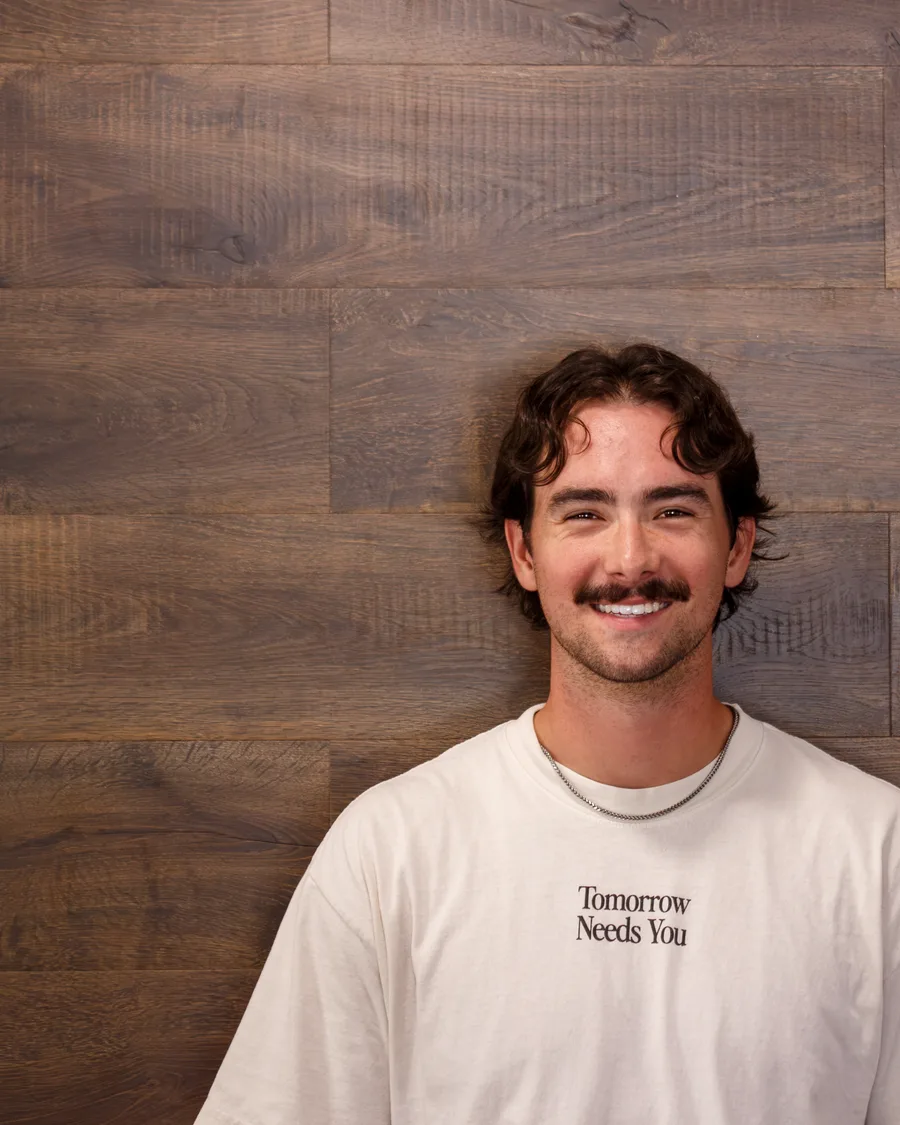
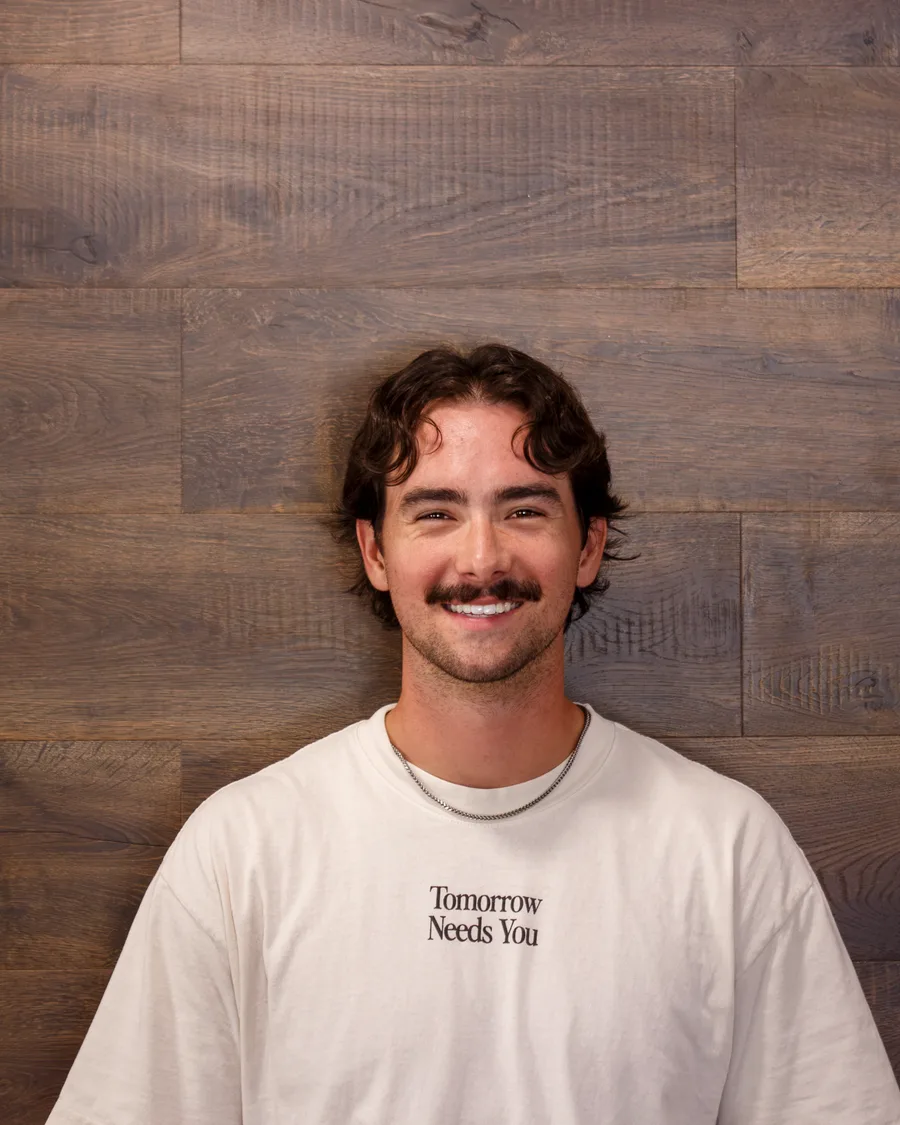
Centre Matthew and Paul, rework the social marks, fix two long lines
Photos
- Matthew was still 16.5% right of centre and Paul had drifted 6% left. The
  earlier offsets for both were estimated by eye off a small contact sheet and
  were simply wrong. Measured properly this time — rendered card, ruler at 5%
  intervals, read against the tick marks — and re-measured all nine the same
  way afterwards. Andrea and Mary Sue were 3% out and were trimmed too. All
  nine now sit within about 1% of centre.

Social marks
- Both are the same rounded square now, so they read as one set rather than an
  outlined square beside a bare solid "f". The enclosing circle is gone; the
  square was already the shape and ringing it too made each look like an
  unfinished button. Gold, which is what the accent is on a navy ground and is
  untouched by the campus theme, so they stay right in both.
- The f really was off-centre. Its bounding box measured (12.62, 12.31)
  against the square's (12, 12) — an f is asymmetric, so its coordinates never
  centre on their own — and it now carries exactly that correction. Verified
  in the browser: both marks sit at 50/50 inside their squares.

Long lines
- The two schools run together wrapped mid-name at nearly every width, so they
  are separate fields set on their own lines.
- The ministry's full name broke with "Ministry" alone on the last line in the
  footer column; balanced now, giving "John Paul the Great / Catholic Campus
  Ministry".

Also
[…]

diff --git a/src/components/layout/SocialLinks.tsx b/src/components/layout/SocialLinks.tsx
@@ -1,27 +1,37 @@
 import { SITE_CONFIG } from "@/content/site-config";
 
 /**
- * Platform icons rather than the words "Instagram" and "Facebook".
+ * The ministry's social links, as marks rather than words.
+ *
+ * Both are drawn as the same rounded square so they read as one set instead of
+ * two borrowed glyphs — the first pass paired an outlined square with a bare
+ * solid "f" and looked accidental. The enclosing circle is gone: the square is
+ * already the shape, and ringing it as well made each one look like a button
+ * someone forgot to finish.
+ *
+ * Gold, because on a navy ground gold is the accent in this system — the
+ * campus accent only ever appears on light grounds, and gold is deliberately
+ * untouched by the campus theme, so these stay correct under both.
  *
  * Inline SVG, not an icon package: two glyphs don't justify a dependency, and
  * inlining means they inherit currentColor and can't arrive late or fail to
- * load. Paths are the plain geometric marks — a rounded square with a circle
- * for Instagram, the lowercase f for Facebook — so nothing here reproduces a
- * brand's actual logo artwork.
+ * load. These are the plain geometric marks, not a brand's logo artwork.
  *
- * Each link keeps a visually-hidden text label so the destination is announced
+ * Each link keeps a visually-hidden label so the destination is announced
  * properly; `title` alone is not reliably read out.
  */
+const FRAME = <rect x="2.6" y="2.6" width="18.8" height="18.8" rx="5.4" />;
+
 const LINKS = [
   {
     name: "Instagram",
     href: SITE_CONFIG.instagramUrl,
     detail: SITE_CONFIG.instagram,
-    path: (
+    mark: (
       <>
-        <rect x="3" y="3" width="18" height="18" rx="5" />
-        <circle cx="12" cy="12" r="4" />
-        <circle cx="17.2" cy="6.8" r="1.2" fill="currentColor" stroke="none" />
+        {FRAME}
+        <circle cx="12" cy="12" r="4.15" />
+        <circle cx="17.05" cy="6.95" r="1.15" fill="currentColor" stroke="none" />
       </>
     ),
   },
@@ -29,48 +39,55 @@ const LINKS = [
     name: "Facebook",
     href: SITE_CONFIG.facebookUrl,
     detail: "Facebook",
-    // Solid glyph, so it overrides the stroked defaults the Instagram mark uses.
-    path: (
-      <path
-        d="M14.5 8.5h2.2V5.6h-2.6c-2.2 0-3.6 1.4-3.6 3.7v1.9H8.2v3h2.3V21h3.1v-6.8h2.3l.4-3h-2.7v-1.5c0-.7.3-1.2.9-1.2Z"
-        fill="currentColor"
-        stroke="none"
-      />
+    mark: (
+      <>
+        {FRAME}
+        {/* The f. The translate is not a guess — the glyph's own bounding box
+            was measured in the browser at (12.62, 12.31) against the square's
+            (12, 12), and this is that difference. An f is asymmetric, so its
+            path coordinates never centre on their own. */}
+        <path
+          d="M13.55 18.4v-5.55h1.86l.35-2.16h-2.21V9.29c0-.62.17-1.05 1.06-1.05h1.13V6.31a15 15 0 0 0-1.65-.09c-1.63 0-2.75.995-2.75 2.825v1.645H9.47v2.16h1.88V18.4Z"
+          transform="translate(-0.62 -0.31)"
+          fill="currentColor"
+          stroke="none"
+        />
+      </>
     ),
   },
 ] as const;
 
 export function SocialLinks({ className }: { className?: string }) {
   return (
-    <div className={className}>
-      <ul className="flex items-center gap-3">
-        {LINKS.map((link) => (
-          <li key={link.name}>
-            <a
-              href={link.href}
-              target="_blank"
-              rel="noopener noreferrer"
-              title={`${SITE_CONFIG.shortName} on ${link.name}${link.detail !== link.name ? ` — ${link.detail}` : ""}`}
-              className="flex h-10 w-10 items-center justify-center rounded-full border border-white/20 text-onnavy transition-colors duration-150 hover:border-gold-light hover:bg-gold-light hover:text-navy"
+    <ul className={`flex items-center gap-4 ${className ?? ""}`}>
+      {LINKS.map((link) => (
+        <li key={link.name}>
+          <a
+            href={link.href}
+            target="_blank"
+            rel="noopener noreferrer"
+            title={`${SITE_CONFIG.shortName} on ${link.name}${
+              link.detail !== link.name ? ` — ${link.detail}` : ""
+            }`}
+            className="block text-gold-light transition-[color,transform] duration-200 ease-out hover:-translate-y-0.5 hover:text-ivory"
+          >
+            <svg
+              viewBox="0 0 24 24"
+              width="26"
+              height="26"
+              fill="none"
+              stroke="currentColor"
+              strokeWidth="1.6"
+              strokeLinecap="round"
+              strokeLinejoin="round"
+              aria-hidden="true"
             >
-              <svg
-                viewBox="0 0 24 24"
-                width="17"
-                height="17"
-                fill="none"
-                stroke="currentColor"
-                strokeWidth="1.7"
-                strokeLinecap="round"
-                strokeLinejoin="round"
-                aria-hidden="true"
-              >
-                {link.path}
-              </svg>
-              <span className="sr-only">{`${link.name} — ${link.detail}`}</span>
-            </a>
-          </li>
-        ))}
-      </ul>
-    </div>
+              {link.mark}
+            </svg>
+            <span className="sr-only">{`${link.name} — ${link.detail}`}</span>
+          </a>
+        </li>
+      ))}
+    </ul>
   );
 }

diff --git a/src/components/layout/Footer.tsx b/src/components/layout/Footer.tsx
@@ -31,7 +31,11 @@ export function Footer() {
               Visit
             </div>
             <div className="mt-4 text-sm leading-[1.85] text-onnavy">
-              <div className="font-bold text-gold-light">{SITE_CONFIG.ministryCenterName}</div>
+              {/* text-balance: the name is long enough to wrap in this column, and
+                  the default break left "Ministry" alone on the last line. */}
+              <div className="text-balance font-bold text-gold-light">
+                {SITE_CONFIG.ministryCenterName}
+              </div>
               <div>{SITE_CONFIG.streetAddress}</div>
               <div>
                 {SITE_CONFIG.city}, {SITE_CONFIG.state} {SITE_CONFIG.zip}
@@ -44,10 +48,10 @@ export function Footer() {
               Contact
             </div>
             <div className="mt-4 flex flex-col gap-1 text-sm leading-[1.85] text-onnavy">
-              <a href={`mailto:${SITE_CONFIG.email}`} className="transition-colors hover:text-gold-light">
+              <a href={`mailto:${SITE_CONFIG.email}`} className="text-onnavy transition-colors hover:text-gold-light">
                 {SITE_CONFIG.email}
               </a>
-              <a href={`tel:${SITE_CONFIG.phone.replace(/[^\d+]/g, "")}`} className="transition-colors hover:text-gold-light">
+              <a href={`tel:${SITE_CONFIG.phone.replace(/[^\d+]/g, "")}`} className="text-onnavy transition-colors hover:text-gold-light">
                 {SITE_CONFIG.phone}
               </a>
             </div>

diff --git a/src/content/student-leaders.ts b/src/content/student-leaders.ts
@@ -49,10 +49,8 @@ export type StudentLeader = {
  * Names, roles, and saints are confirmed. Bios, fun facts, hometowns, majors,
  * and verses are not — every ◆ below still needs a real answer from the team.
  *
- * One open item: the ministry supplied nine roles and eight names. Alvaro is
- * the only photo not reassigned and Liturgy the only role left unclaimed, so
- * he is placed there by elimination — confirmed with the ministry as the
- * intended reading. His surname and saint are still outstanding.
+ * Andrea and Linda share a Confirmation saint. Checked with the ministry —
+ * that is correct, not a transcription slip.
  */
 export const STUDENT_LEADERS: StudentLeader[] = [
   {
@@ -99,12 +97,12 @@ export const STUDENT_LEADERS: StudentLeader[] = [
   },
   {
     slug: "alvaro",
-    name: "◆ Alvaro",
+    name: "Alvaro Gonzalez",
     role: "Liturgy",
+    saint: "St. Anthony the Great",
     bio: "◆ Two sentences on who he is and what he does here.",
     longBio: "◆ A longer paragraph — how he found the Center, what he'd tell a nervous freshman, what he's studying.",
     facets: [
-      { label: "Confirmation Saint", value: "◆" },
       { label: "Fun Fact", value: "◆" },
       { label: "Hometown", value: "◆" },
       { label: "Major", value: "◆" },

diff --git a/src/components/home/HeroCopy.tsx b/src/components/home/HeroCopy.tsx
@@ -9,13 +9,15 @@ import { SITE_CONFIG } from "@/content/site-config";
 export function HeroCopy() {
   return (
     <motion.div className="reveal-pin" initial="hidden" animate="visible" variants={heroStagger}>
-      {/* Both schools. The rule is flex-none and the text wraps rather than
-          shrinking the rule away, since the pair is long enough to run onto a
-          second line on a phone. */}
+      {/* Both schools, stacked. Run together on one line they wrap mid-name at
+          almost every width; on their own lines they read as a list. The rule
+          sits against the first line rather than centring on the block. */}
       <motion.div variants={fadeUpSmall} className="reveal-pin flex items-start gap-[13px]">
         <span className="mt-[7px] h-px w-11 flex-none bg-gold-light" />
-        <span className="max-w-[420px] font-ui text-[11px] font-semibold uppercase leading-[1.6] tracking-[.22em] text-gold-light">
-          {SITE_CONFIG.universities}
+        <span className="font-ui text-[11px] font-semibold uppercase leading-[1.7] tracking-[.24em] text-gold-light">
+          {SITE_CONFIG.university}
+          <br />
+          {SITE_CONFIG.partnerSchool}
         </span>
       </motion.div>
 

diff --git a/src/content/site-config.ts b/src/content/site-config.ts
@@ -12,11 +12,11 @@ export const SITE_CONFIG = {
   tagline: "Be Disciples, Make Disciples.",
   university: "The University of Texas at Tyler",
   /**
-   * Both campuses, for anywhere the ministry is introduced. JPII serves UT
-   * Tyler and TJC; `university` stays the single-school string for places
-   * where the longer form won't fit.
+   * The second campus, kept as its own field rather than joined onto
+   * `university`: run together they make a line long enough to wrap badly
+   * wherever they appear, so every use sets them on their own lines.
    */
-  universities: "The University of Texas at Tyler & Tyler Junior College",
+  partnerSchool: "Tyler Junior College",
 
   heroType: "varsity" as "varsity" | "sacred",
   headerTheme: "dark" as "dark" | "light",
